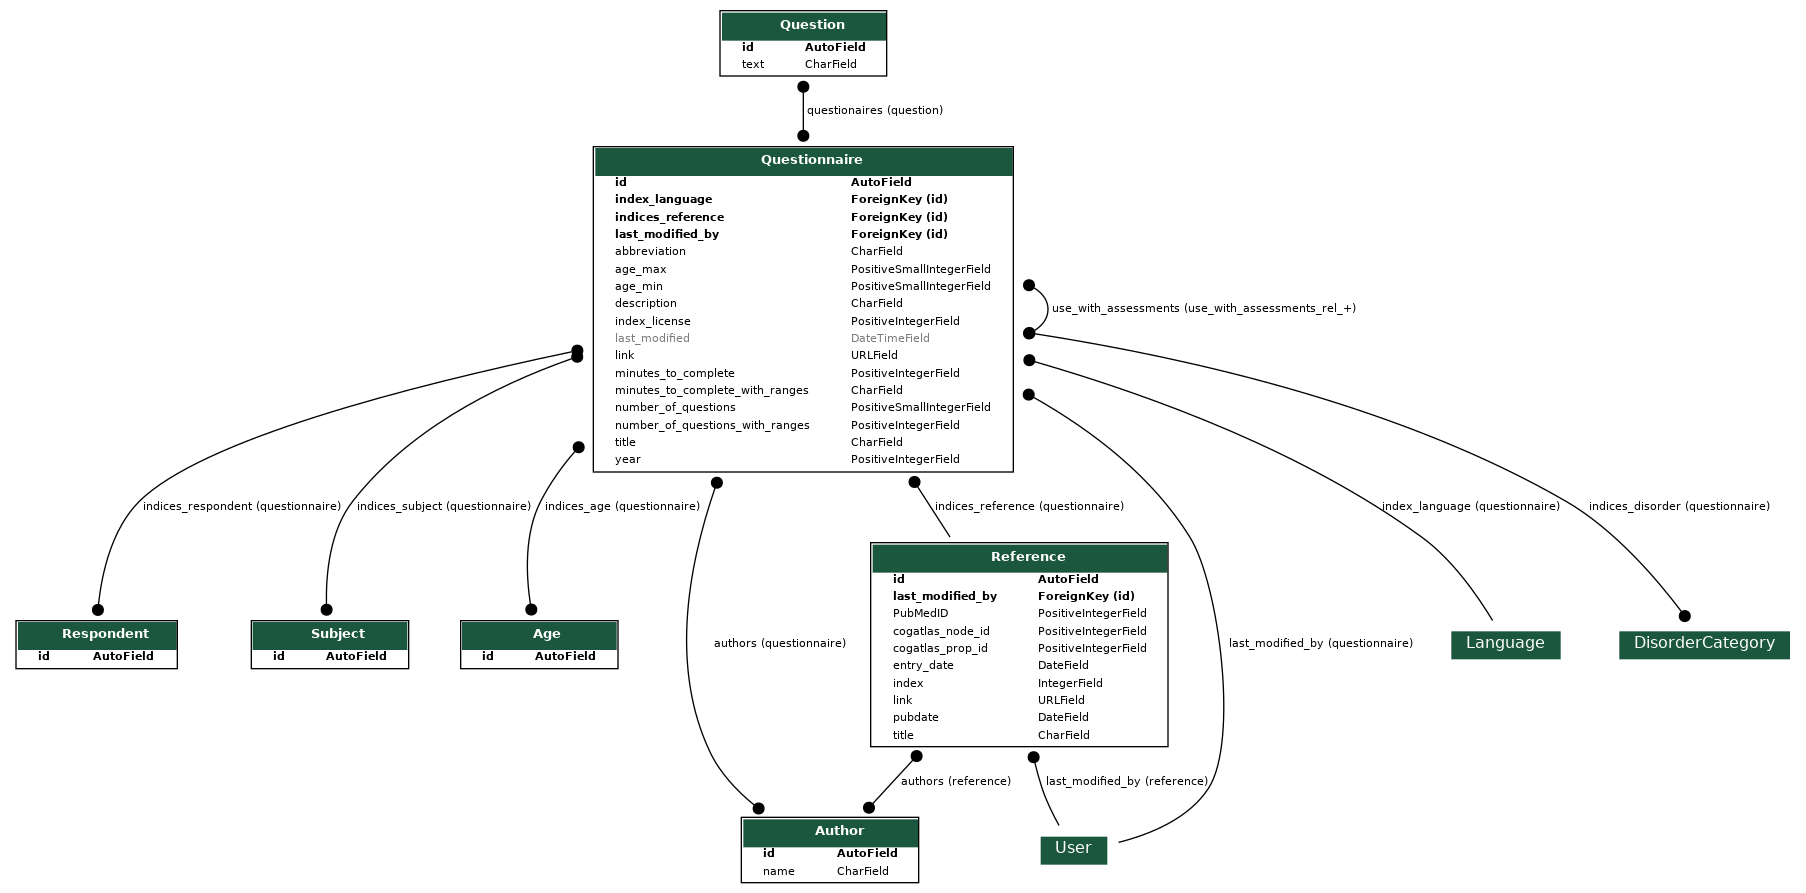
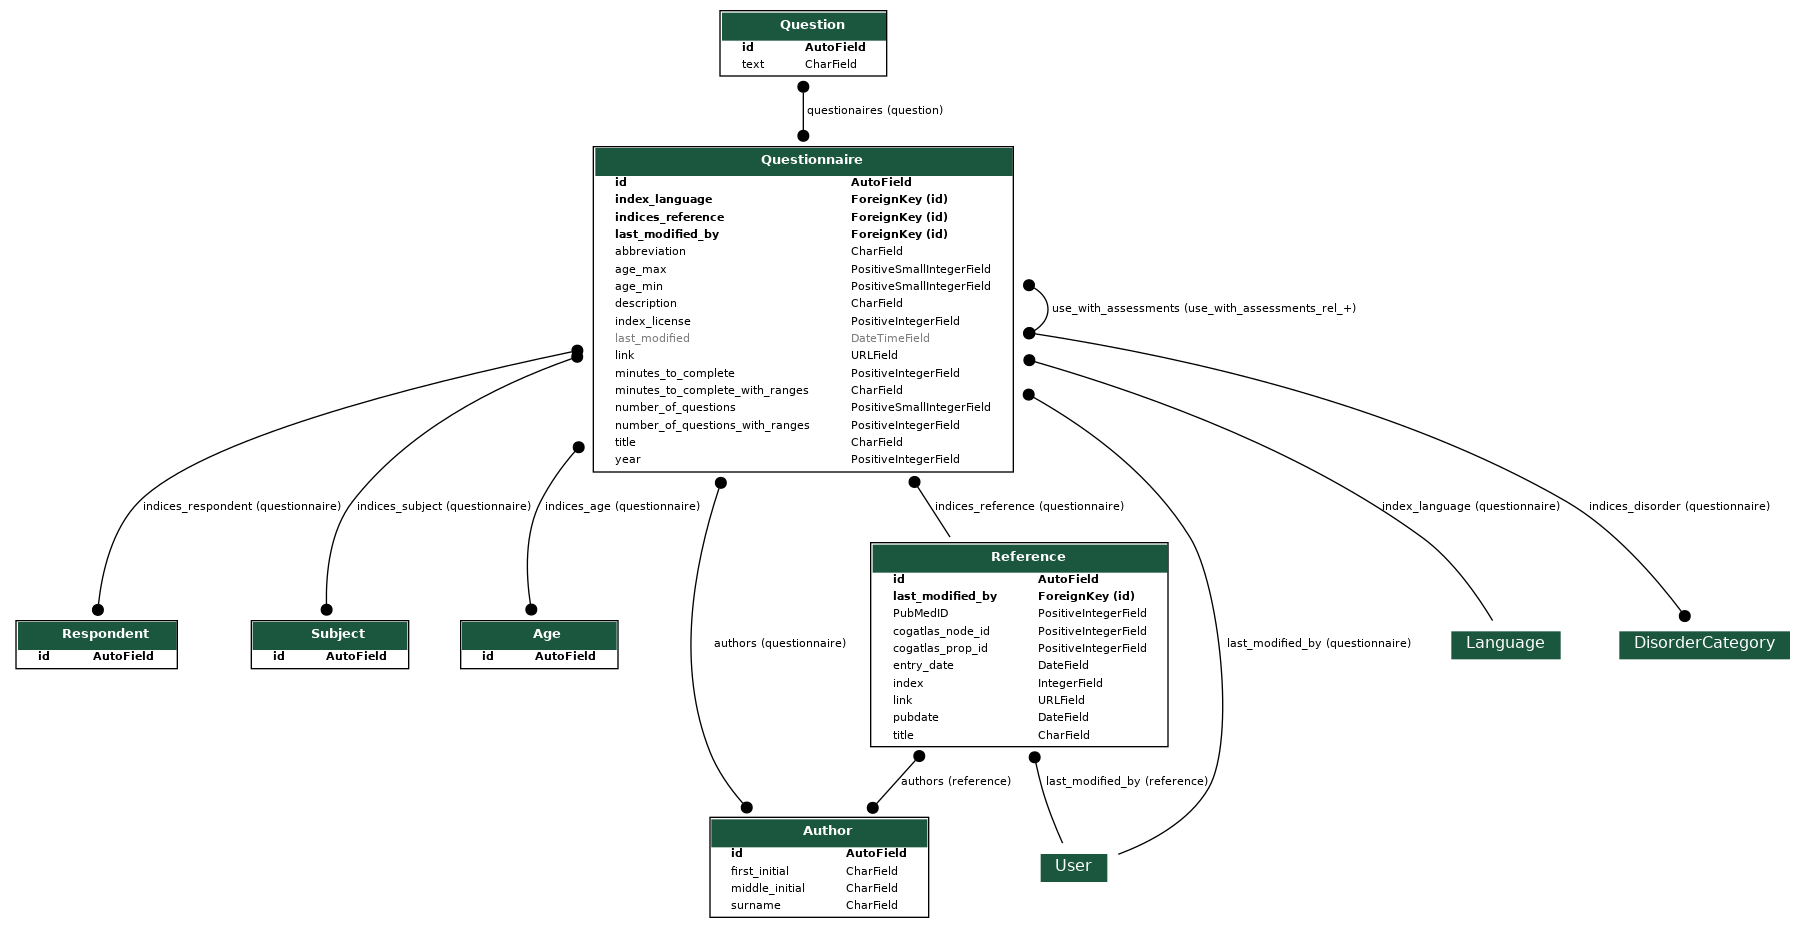
fix naming bug and update schema image

diff --git a/api/assessments/models.py b/api/assessments/models.py
@@ -15,7 +15,6 @@ class Age(models.Model):
     pass
 
 class Author(models.Model):
-    
     surname = models.CharField(max_length=200,)
     first_initial = models.CharField(max_length=1, null=True)
     middle_initial = models.CharField(max_length=1, null=True)
@@ -23,7 +22,7 @@ class Author(models.Model):
     def __str__(self):
         first = f", {self.first_initial}." if self.first_initial else ""
         middle = f", {self.middle_initial}." if self.middle_initial else ""
-        return f"{self.name}" + first + middle
+        return f"{self.surname}" + first + middle
 
 
 class Reference(models.Model):

diff --git a/api/assessments/views.py b/api/assessments/views.py
@@ -5,7 +5,7 @@ from assessments.serializers import QuestionnaireSerializer, AuthorSerializer
 
 class AuthorViewset(viewsets.ModelViewSet):
 
-    queryset = Author.objects.all()
+    queryset = Author.objects.all() #.order_by('surname')
     serializer_class = AuthorSerializer
 
 
